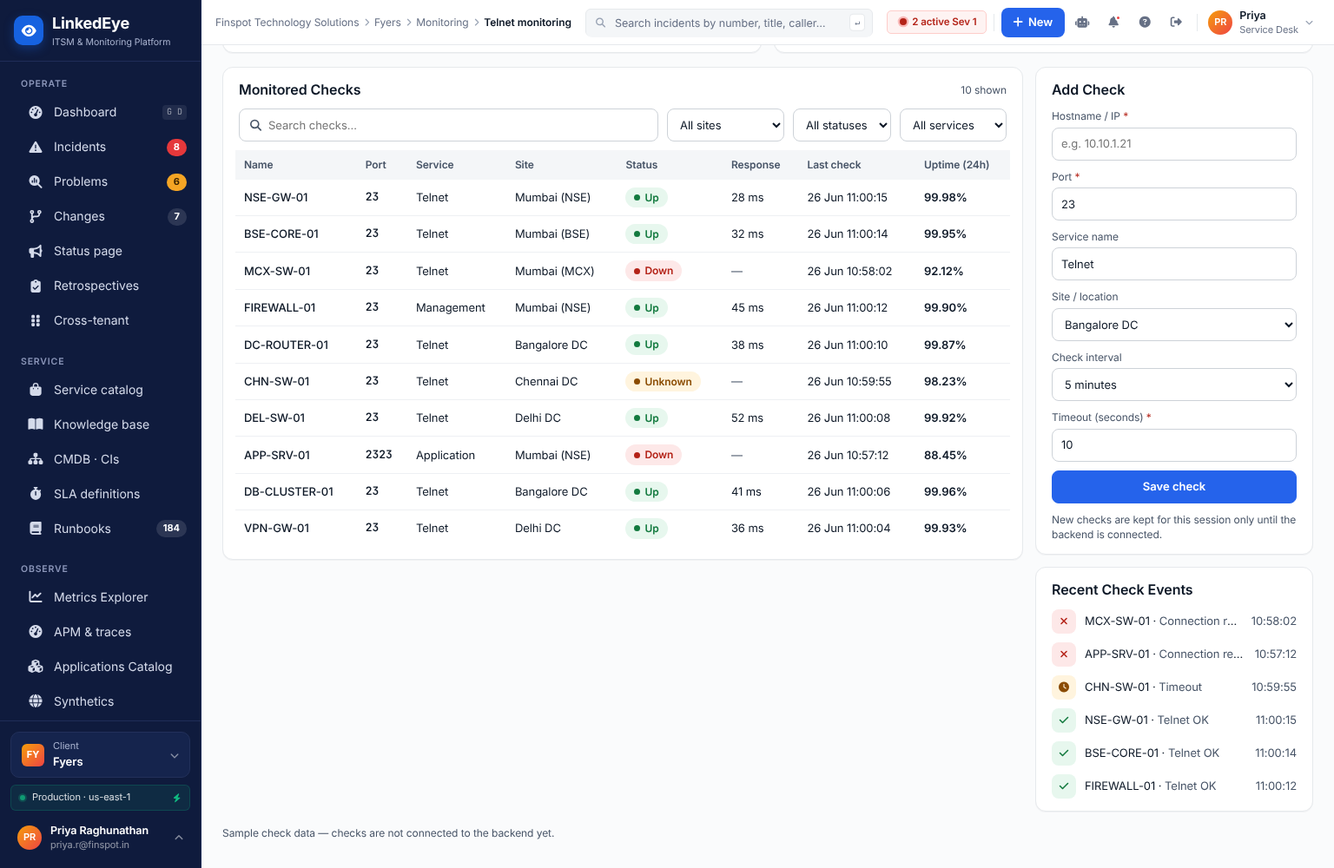
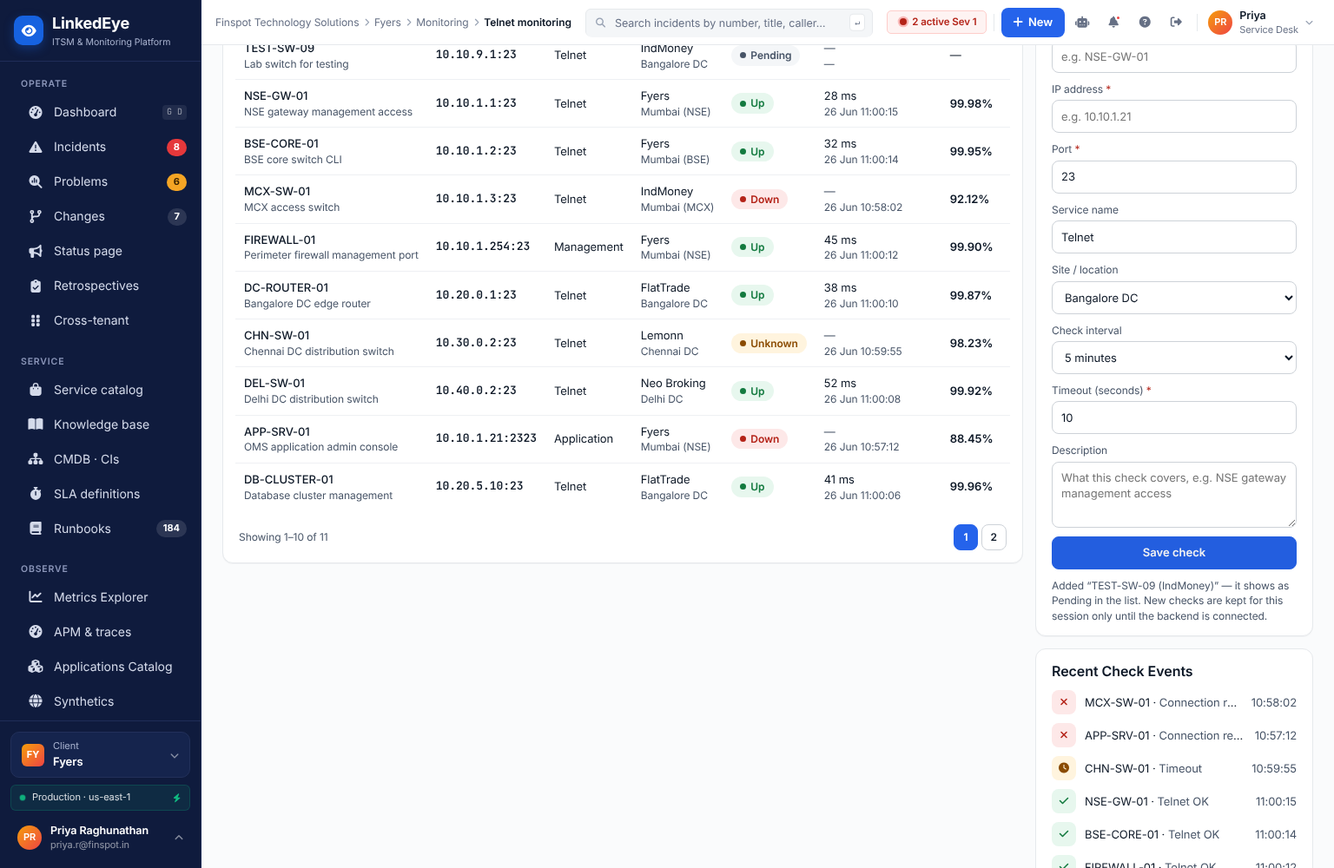
feat(checks): client-scoped checks; Telnet IP address and description
- CheckMonitor is tenant-aware: rows carry their client, the view opens
  on the client picked in the sidebar (follows the switcher) with an
  "All clients" option, and cards / charts / events / table use that
  scope. The add form has a Client field defaulting to the current one;
  a saved check switches the view to its client so it is visible.
- Telnet checks gain an IP address (IPv4-validated) and a description;
  the table shows IP:port and the description under the host name.
- URL checks gain a description and an http(s) URL pattern.
- Client and site share a column, and last-check time sits under the
  response time, so the table fits.

Claude-Session: https://claude.ai/code/session_01Trp7iHV3MS3Xb8qQu9tAwN

diff --git a/frontend/src/components/CheckMonitor.tsx b/frontend/src/components/CheckMonitor.tsx
@@ -1,8 +1,13 @@
 // Shared LinkedEye layout for endpoint check screens (URL Checker, Telnet
 // Monitoring): summary cards, status donut + slowest-checks bars, a filterable
 // checks table, an "add check" form and recent check events.
-// Checks added through the form live in component state for this session only.
+// Checks are tenant-scoped: the view opens on the client picked in the sidebar,
+// with an "All clients" option. Checks added through the form live in
+// component state for this session only.
 import React from "react";
+import { useUiStore } from "@/store/ui";
+import { useTenants } from "@/api/hooks";
+import { TENANTS } from "@/data/core";
 import { Donut, Empty, Legend, Panel, Pill, StatCard, fmt } from "@/components/ld";
 import type { Slice, Tone } from "@/components/ld";
 
@@ -10,7 +15,10 @@ export type CheckStatus = "up" | "down" | "warn" | "pending";
 
 export interface CheckRow {
   id: string;
+  /** Owning client (tenant id). */
+  client: string;
   name: string;
+  description?: string;
   target: string;
   kind: string;
   site: string;
@@ -23,9 +31,12 @@ export interface CheckRow {
 export interface CheckField {
   id: string;
   label: string;
-  type: "text" | "number" | "select";
+  type: "text" | "number" | "select" | "textarea";
   options?: string[];
   placeholder?: string;
+  /** Regex the value must match (HTML pattern attribute), with a hint shown on mismatch. */
+  pattern?: string;
+  patternHint?: string;
   required?: boolean;
   defaultValue?: string;
 }
@@ -41,7 +52,7 @@ export interface CheckMonitorConfig {
   columns: { target: string; kind: string };
   rows: CheckRow[];
   formFields: CheckField[];
-  /** Build a row from submitted form values. */
+  /** Build a row from submitted form values; values.client is the chosen tenant id. */
   toRow: (values: Record<string, string>) => CheckRow;
 }
 
@@ -55,6 +66,12 @@ const lc = (s: string) => (/^[A-Z]{2}/.test(s) ? s : s.toLowerCase());
 const uptimeTone = (u: number | null): string => (u == null ? "" : u >= 99.5 ? "ld-text-ok" : u >= 95 ? "ld-text-warn" : "ld-text-crit");
 
 export function CheckMonitorScreen(cfg: CheckMonitorConfig) {
+  const tenant = useUiStore((s) => s.tenant);
+  const clients = useTenants().data ?? TENANTS;
+  const clientName = (id: string) => clients.find((c) => c.id === id)?.name ?? id;
+  const [client, setClient] = React.useState(tenant.id);
+  // Follow the sidebar's client switcher.
+  React.useEffect(() => setClient(tenant.id), [tenant.id]);
   const [added, setAdded] = React.useState<CheckRow[]>([]);
   const [query, setQuery] = React.useState("");
   const [site, setSite] = React.useState("");
@@ -63,29 +80,31 @@ export function CheckMonitorScreen(cfg: CheckMonitorConfig) {
   const [page, setPage] = React.useState(0);
   const idp = React.useId();
 
-  const initialValues = () => Object.fromEntries(cfg.formFields.map((f) => [f.id, f.defaultValue ?? ""]));
+  const initialValues = () => ({ client: tenant.id, ...Object.fromEntries(cfg.formFields.map((f) => [f.id, f.defaultValue ?? ""])) });
   const [values, setValues] = React.useState<Record<string, string>>(initialValues);
   const [saved, setSaved] = React.useState<string | null>(null);
 
   const all = React.useMemo(() => [...added, ...cfg.rows], [added, cfg.rows]);
-  const sites = [...new Set(all.map((r) => r.site))].sort();
-  const kinds = [...new Set(all.map((r) => r.kind))].sort();
+  // Everything below (cards, charts, events, table) is scoped to the chosen client.
+  const scoped = client ? all.filter((r) => r.client === client) : all;
+  const sites = [...new Set(scoped.map((r) => r.site))].sort();
+  const kinds = [...new Set(scoped.map((r) => r.kind))].sort();
   const q = query.trim().toLowerCase();
-  const visible = all.filter(
+  const visible = scoped.filter(
     (r) =>
       (!site || r.site === site) &&
       (!status || r.status === status) &&
       (!kind || r.kind === kind) &&
-      (!q || r.name.toLowerCase().includes(q) || r.target.toLowerCase().includes(q)),
+      (!q || [r.name, r.target, r.description ?? ""].some((v) => v.toLowerCase().includes(q))),
   );
-  React.useEffect(() => setPage(0), [query, site, status, kind]);
+  React.useEffect(() => setPage(0), [query, site, status, kind, client]);
   const pages = Math.max(1, Math.ceil(visible.length / PAGE_SIZE));
   const pageRows = visible.slice(page * PAGE_SIZE, (page + 1) * PAGE_SIZE);
 
-  const count = (s: CheckStatus) => all.filter((r) => r.status === s).length;
-  const timed = all.filter((r) => r.responseMs != null) as (CheckRow & { responseMs: number })[];
+  const count = (s: CheckStatus) => scoped.filter((r) => r.status === s).length;
+  const timed = scoped.filter((r) => r.responseMs != null) as (CheckRow & { responseMs: number })[];
   const avgMs = timed.length ? timed.reduce((a, r) => a + r.responseMs, 0) / timed.length : 0;
-  const pct = (n: number) => (all.length ? `${((n / all.length) * 100).toFixed(1)}%` : "—");
+  const pct = (n: number) => (scoped.length ? `${((n / scoped.length) * 100).toFixed(1)}%` : "—");
 
   const statusSlices: Slice[] = (["up", "down", "warn", "pending"] as CheckStatus[])
     .map((s) => ({ label: cfg.statusLabel[s], value: count(s), color: STATUS_COLOR[s] }))
@@ -95,7 +114,7 @@ export function CheckMonitorScreen(cfg: CheckMonitorConfig) {
 
   // Failures first, then the most recent checks.
   const severity: Record<CheckStatus, number> = { down: 0, warn: 1, up: 2, pending: 3 };
-  const events = [...all]
+  const events = [...scoped]
     .filter((r) => r.status !== "pending")
     .sort((a, b) => severity[a.status] - severity[b.status] || b.lastCheck.localeCompare(a.lastCheck))
     .slice(0, 6);
@@ -104,7 +123,9 @@ export function CheckMonitorScreen(cfg: CheckMonitorConfig) {
     e.preventDefault();
     const row = cfg.toRow(values);
     setAdded((rows) => [row, ...rows]);
-    setSaved(row.name);
+    setSaved(`${row.name} (${clientName(row.client)})`);
+    // Show the new check even if the list was scoped to another client.
+    if (client && row.client !== client) setClient(row.client);
     setValues(initialValues());
   };
 
@@ -113,9 +134,14 @@ export function CheckMonitorScreen(cfg: CheckMonitorConfig) {
       <div className="ld-head">
         <div>
           <h1>{cfg.title}</h1>
-          <p>{cfg.subtitle}</p>
+          <p>{cfg.subtitle} · {client ? clientName(client) : "all clients"}</p>
         </div>
         <div className="ld-head-actions">
+          <label htmlFor={`${idp}-client`} className="ld-inline-label">Client</label>
+          <select id={`${idp}-client`} className="ld-select" value={client} onChange={(e) => setClient(e.target.value)}>
+            <option value="">All clients</option>
+            {clients.map((c) => <option key={c.id} value={c.id}>{c.name}</option>)}
+          </select>
           <a className="ld-btn ld-btn-primary" href={`#${idp}-form`}>
             <i className="fa-solid fa-plus" aria-hidden="true" /> Add {lc(cfg.noun.one)}
           </a>
@@ -123,7 +149,7 @@ export function CheckMonitorScreen(cfg: CheckMonitorConfig) {
       </div>
 
       <div className="ld-grid ld-grid-5">
-        <StatCard icon={cfg.icon} tone="info" label={`Total ${cfg.noun.many}`} value={fmt(all.length)} note={`configured ${lc(cfg.noun.many)}`} onClick={() => setStatus("")} />
+        <StatCard icon={cfg.icon} tone="info" label={`Total ${cfg.noun.many}`} value={fmt(scoped.length)} note={`configured ${lc(cfg.noun.many)}`} onClick={() => setStatus("")} />
         <StatCard icon="fa-circle-check" tone="ok" label={cfg.statusLabel.up} value={fmt(count("up"))} note={pct(count("up"))} onClick={() => setStatus("up")} />
         <StatCard icon="fa-circle-xmark" tone="crit" label={cfg.statusLabel.down} value={fmt(count("down"))} note={pct(count("down"))} onClick={() => setStatus("down")} />
         <StatCard icon="fa-clock" tone="warn" label={cfg.statusLabel.warn} value={fmt(count("warn"))} note={pct(count("warn"))} onClick={() => setStatus("warn")} />
@@ -134,7 +160,7 @@ export function CheckMonitorScreen(cfg: CheckMonitorConfig) {
         <Panel title={`${cfg.noun.one} Status Overview`}>
           {statusSlices.length ? (
             <div className="ld-donut-row">
-              <Donut slices={statusSlices} center={fmt(all.length)} sub={`Total ${cfg.noun.many}`} label={`${all.length} ${lc(cfg.noun.many)} by status`} />
+              <Donut slices={statusSlices} center={fmt(scoped.length)} sub={`Total ${cfg.noun.many}`} label={`${scoped.length} ${lc(cfg.noun.many)} by status`} />
               <Legend slices={statusSlices} />
             </div>
           ) : (
@@ -196,23 +222,30 @@ export function CheckMonitorScreen(cfg: CheckMonitorConfig) {
                     <th scope="col">Name</th>
                     <th scope="col">{cfg.columns.target}</th>
                     <th scope="col">{cfg.columns.kind}</th>
-                    <th scope="col">Site</th>
+                    <th scope="col">Client · site</th>
                     <th scope="col">Status</th>
-                    <th scope="col">Response</th>
-                    <th scope="col">Last check</th>
+                    <th scope="col">Response · last check</th>
                     <th scope="col">Uptime (24h)</th>
                   </tr>
                 </thead>
                 <tbody>
                   {pageRows.map((r) => (
                     <tr key={r.id}>
-                      <td className="ld-strong">{r.name}</td>
+                      <td>
+                        <span className="ld-strong">{r.name}</span>
+                        {r.description && <span className="ld-sub ld-desc" title={r.description}>{r.description}</span>}
+                      </td>
                       <td className="ld-mono ld-ellipsis ld-ellipsis-sm" title={r.target}>{r.target}</td>
                       <td className="ld-muted">{r.kind}</td>
-                      <td className="ld-muted">{r.site}</td>
+                      <td>
+                        {clientName(r.client)}
+                        <span className="ld-sub">{r.site}</span>
+                      </td>
                       <td><Pill tone={STATUS_TONE[r.status]}><span className="ld-pill-dot" />{cfg.statusLabel[r.status]}</Pill></td>
-                      <td>{r.responseMs != null ? `${fmt(r.responseMs)} ms` : <span className="ld-muted">—</span>}</td>
-                      <td className="ld-muted">{r.lastCheck}</td>
+                      <td>
+                        {r.responseMs != null ? `${fmt(r.responseMs)} ms` : <span className="ld-muted">—</span>}
+                        <span className="ld-sub">{r.lastCheck}</span>
+                      </td>
                       <td className={uptimeTone(r.uptime)}>{r.uptime != null ? `${r.uptime.toFixed(2)}%` : "—"}</td>
                     </tr>
                   ))}
@@ -242,6 +275,12 @@ export function CheckMonitorScreen(cfg: CheckMonitorConfig) {
               <h2 id={`${idp}-form-h`}>Add {cfg.noun.one}</h2>
             </div>
             <form className="ld-form" onSubmit={submit}>
+              <div className="ld-form-field">
+                <label htmlFor={`${idp}-f-client`}>Client<span className="ld-req" aria-hidden="true"> *</span></label>
+                <select id={`${idp}-f-client`} className="ld-select" required value={values.client} onChange={(e) => setValues({ ...values, client: e.target.value })}>
+                  {clients.map((c) => <option key={c.id} value={c.id}>{c.name}</option>)}
+                </select>
+              </div>
               {cfg.formFields.map((f) => (
                 <div key={f.id} className="ld-form-field">
                   <label htmlFor={`${idp}-f-${f.id}`}>
@@ -252,11 +291,23 @@ export function CheckMonitorScreen(cfg: CheckMonitorConfig) {
                     <select id={`${idp}-f-${f.id}`} className="ld-select" required={f.required} value={values[f.id]} onChange={(e) => setValues({ ...values, [f.id]: e.target.value })}>
                       {f.options?.map((o) => <option key={o} value={o}>{o}</option>)}
                     </select>
+                  ) : f.type === "textarea" ? (
+                    <textarea
+                      id={`${idp}-f-${f.id}`}
+                      className="ld-input ld-textarea"
+                      rows={3}
+                      placeholder={f.placeholder}
+                      required={f.required}
+                      value={values[f.id]}
+                      onChange={(e) => setValues({ ...values, [f.id]: e.target.value })}
+                    />
                   ) : (
                     <input
                       id={`${idp}-f-${f.id}`}
                       className="ld-input"
                       type={f.type}
+                      pattern={f.pattern}
+                      title={f.patternHint}
                       min={f.type === "number" ? 1 : undefined}
                       placeholder={f.placeholder}
                       required={f.required}

diff --git a/frontend/src/data/monitoring.ts b/frontend/src/data/monitoring.ts
@@ -173,7 +173,10 @@ export const DOMAINS: DomainRecord[] = [
 ];
 
 export interface UrlCheck {
+  /** Owning client (tenant id) — checks are tenant-scoped. */
+  client: string;
   name: string;
+  description: string;
   url: string;
   type: "Web" | "API";
   site: string;
@@ -184,20 +187,24 @@ export interface UrlCheck {
 }
 
 export const URL_CHECKS: UrlCheck[] = [
-  { name: "NSE Web Portal", url: "https://www.nseindia.com", type: "Web", site: "Mumbai (NSE)", status: "Online", responseMs: 321, lastCheck: "26 Jun 11:02:15", uptime: 99.98 },
-  { name: "BSE Portal", url: "https://www.bseindia.com", type: "Web", site: "Mumbai (BSE)", status: "Online", responseMs: 412, lastCheck: "26 Jun 11:02:12", uptime: 99.95 },
-  { name: "MCX Portal", url: "https://www.mcxindia.com", type: "Web", site: "Mumbai (MCX)", status: "Degraded", responseMs: 1842, lastCheck: "26 Jun 11:02:10", uptime: 95.23 },
-  { name: "WeCrew Academy", url: "https://wecrew.in", type: "Web", site: "All Sites", status: "Online", responseMs: 289, lastCheck: "26 Jun 11:02:14", uptime: 99.99 },
-  { name: "LinkedEye API", url: "https://api.wecrew.in", type: "API", site: "All Sites", status: "Online", responseMs: 356, lastCheck: "26 Jun 11:02:11", uptime: 99.96 },
-  { name: "Redmine", url: "https://redmine.wecrew.in", type: "Web", site: "Mumbai", status: "Down", responseMs: null, lastCheck: "26 Jun 11:01:55", uptime: 87.42 },
-  { name: "Grafana", url: "https://grafana.wecrew.in", type: "Web", site: "All Sites", status: "Online", responseMs: 623, lastCheck: "26 Jun 11:02:13", uptime: 99.91 },
-  { name: "Prometheus", url: "https://prometheus.wecrew.in", type: "Web", site: "All Sites", status: "Online", responseMs: 512, lastCheck: "26 Jun 11:02:12", uptime: 99.93 },
-  { name: "Superset", url: "https://superset.wecrew.in", type: "Web", site: "All Sites", status: "Degraded", responseMs: 1256, lastCheck: "26 Jun 11:02:09", uptime: 96.18 },
-  { name: "Customer Portal", url: "https://customer.wecrew.in", type: "Web", site: "DR Site", status: "Online", responseMs: 398, lastCheck: "26 Jun 11:02:10", uptime: 99.89 },
+  { client: "fyers", name: "NSE Web Portal", description: "NSE public site availability", url: "https://www.nseindia.com", type: "Web", site: "Mumbai (NSE)", status: "Online", responseMs: 321, lastCheck: "26 Jun 11:02:15", uptime: 99.98 },
+  { client: "fyers", name: "BSE Portal", description: "BSE public site availability", url: "https://www.bseindia.com", type: "Web", site: "Mumbai (BSE)", status: "Online", responseMs: 412, lastCheck: "26 Jun 11:02:12", uptime: 99.95 },
+  { client: "indmoney", name: "MCX Portal", description: "MCX commodities portal", url: "https://www.mcxindia.com", type: "Web", site: "Mumbai (MCX)", status: "Degraded", responseMs: 1842, lastCheck: "26 Jun 11:02:10", uptime: 95.23 },
+  { client: "flattrade", name: "WeCrew Academy", description: "Training portal for client staff", url: "https://wecrew.in", type: "Web", site: "All Sites", status: "Online", responseMs: 289, lastCheck: "26 Jun 11:02:14", uptime: 99.99 },
+  { client: "fyers", name: "LinkedEye API", description: "LinkedEye public API health", url: "https://api.wecrew.in", type: "API", site: "All Sites", status: "Online", responseMs: 356, lastCheck: "26 Jun 11:02:11", uptime: 99.96 },
+  { client: "lemonn", name: "Redmine", description: "Internal ticketing", url: "https://redmine.wecrew.in", type: "Web", site: "Mumbai", status: "Down", responseMs: null, lastCheck: "26 Jun 11:01:55", uptime: 87.42 },
+  { client: "fyers", name: "Grafana", description: "Dashboards for the NOC", url: "https://grafana.wecrew.in", type: "Web", site: "All Sites", status: "Online", responseMs: 623, lastCheck: "26 Jun 11:02:13", uptime: 99.91 },
+  { client: "indmoney", name: "Prometheus", description: "Metrics backend UI", url: "https://prometheus.wecrew.in", type: "Web", site: "All Sites", status: "Online", responseMs: 512, lastCheck: "26 Jun 11:02:12", uptime: 99.93 },
+  { client: "neo-broking", name: "Superset", description: "Analytics dashboards", url: "https://superset.wecrew.in", type: "Web", site: "All Sites", status: "Degraded", responseMs: 1256, lastCheck: "26 Jun 11:02:09", uptime: 96.18 },
+  { client: "betafront", name: "Customer Portal", description: "Customer self-service portal", url: "https://customer.wecrew.in", type: "Web", site: "DR Site", status: "Online", responseMs: 398, lastCheck: "26 Jun 11:02:10", uptime: 99.89 },
 ];
 
 export interface TelnetCheck {
+  /** Owning client (tenant id) — checks are tenant-scoped. */
+  client: string;
   host: string;
+  ip: string;
+  description: string;
   port: number;
   service: string;
   site: string;
@@ -208,14 +215,14 @@ export interface TelnetCheck {
 }
 
 export const TELNET_CHECKS: TelnetCheck[] = [
-  { host: "NSE-GW-01", port: 23, service: "Telnet", site: "Mumbai (NSE)", status: "Up", responseMs: 28, lastCheck: "26 Jun 11:00:15", uptime: 99.98 },
-  { host: "BSE-CORE-01", port: 23, service: "Telnet", site: "Mumbai (BSE)", status: "Up", responseMs: 32, lastCheck: "26 Jun 11:00:14", uptime: 99.95 },
-  { host: "MCX-SW-01", port: 23, service: "Telnet", site: "Mumbai (MCX)", status: "Down", responseMs: null, lastCheck: "26 Jun 10:58:02", uptime: 92.12 },
-  { host: "FIREWALL-01", port: 23, service: "Management", site: "Mumbai (NSE)", status: "Up", responseMs: 45, lastCheck: "26 Jun 11:00:12", uptime: 99.9 },
-  { host: "DC-ROUTER-01", port: 23, service: "Telnet", site: "Bangalore DC", status: "Up", responseMs: 38, lastCheck: "26 Jun 11:00:10", uptime: 99.87 },
-  { host: "CHN-SW-01", port: 23, service: "Telnet", site: "Chennai DC", status: "Unknown", responseMs: null, lastCheck: "26 Jun 10:59:55", uptime: 98.23 },
-  { host: "DEL-SW-01", port: 23, service: "Telnet", site: "Delhi DC", status: "Up", responseMs: 52, lastCheck: "26 Jun 11:00:08", uptime: 99.92 },
-  { host: "APP-SRV-01", port: 2323, service: "Application", site: "Mumbai (NSE)", status: "Down", responseMs: null, lastCheck: "26 Jun 10:57:12", uptime: 88.45 },
-  { host: "DB-CLUSTER-01", port: 23, service: "Telnet", site: "Bangalore DC", status: "Up", responseMs: 41, lastCheck: "26 Jun 11:00:06", uptime: 99.96 },
-  { host: "VPN-GW-01", port: 23, service: "Telnet", site: "Delhi DC", status: "Up", responseMs: 36, lastCheck: "26 Jun 11:00:04", uptime: 99.93 },
+  { client: "fyers", host: "NSE-GW-01", ip: "10.10.1.1", description: "NSE gateway management access", port: 23, service: "Telnet", site: "Mumbai (NSE)", status: "Up", responseMs: 28, lastCheck: "26 Jun 11:00:15", uptime: 99.98 },
+  { client: "fyers", host: "BSE-CORE-01", ip: "10.10.1.2", description: "BSE core switch CLI", port: 23, service: "Telnet", site: "Mumbai (BSE)", status: "Up", responseMs: 32, lastCheck: "26 Jun 11:00:14", uptime: 99.95 },
+  { client: "indmoney", host: "MCX-SW-01", ip: "10.10.1.3", description: "MCX access switch", port: 23, service: "Telnet", site: "Mumbai (MCX)", status: "Down", responseMs: null, lastCheck: "26 Jun 10:58:02", uptime: 92.12 },
+  { client: "fyers", host: "FIREWALL-01", ip: "10.10.1.254", description: "Perimeter firewall management port", port: 23, service: "Management", site: "Mumbai (NSE)", status: "Up", responseMs: 45, lastCheck: "26 Jun 11:00:12", uptime: 99.9 },
+  { client: "flattrade", host: "DC-ROUTER-01", ip: "10.20.0.1", description: "Bangalore DC edge router", port: 23, service: "Telnet", site: "Bangalore DC", status: "Up", responseMs: 38, lastCheck: "26 Jun 11:00:10", uptime: 99.87 },
+  { client: "lemonn", host: "CHN-SW-01", ip: "10.30.0.2", description: "Chennai DC distribution switch", port: 23, service: "Telnet", site: "Chennai DC", status: "Unknown", responseMs: null, lastCheck: "26 Jun 10:59:55", uptime: 98.23 },
+  { client: "neo-broking", host: "DEL-SW-01", ip: "10.40.0.2", description: "Delhi DC distribution switch", port: 23, service: "Telnet", site: "Delhi DC", status: "Up", responseMs: 52, lastCheck: "26 Jun 11:00:08", uptime: 99.92 },
+  { client: "fyers", host: "APP-SRV-01", ip: "10.10.1.21", description: "OMS application admin console", port: 2323, service: "Application", site: "Mumbai (NSE)", status: "Down", responseMs: null, lastCheck: "26 Jun 10:57:12", uptime: 88.45 },
+  { client: "flattrade", host: "DB-CLUSTER-01", ip: "10.20.5.10", description: "Database cluster management", port: 23, service: "Telnet", site: "Bangalore DC", status: "Up", responseMs: 41, lastCheck: "26 Jun 11:00:06", uptime: 99.96 },
+  { client: "betafront", host: "VPN-GW-01", ip: "10.40.0.1", description: "Remote access VPN gateway", port: 23, service: "Telnet", site: "Delhi DC", status: "Up", responseMs: 36, lastCheck: "26 Jun 11:00:04", uptime: 99.93 },
 ];

diff --git a/frontend/src/screens/TelnetMonitoringScreen.tsx b/frontend/src/screens/TelnetMonitoringScreen.tsx
@@ -8,10 +8,14 @@ import { TELNET_CHECKS } from "@/data/monitoring";
 
 const STATUS: Record<string, CheckStatus> = { Up: "up", Down: "down", Unknown: "warn" };
 
+const IPV4 = String.raw`(25[0-5]|2[0-4]\d|1?\d?\d)(\.(25[0-5]|2[0-4]\d|1?\d?\d)){3}`;
+
 const ROWS: CheckRow[] = TELNET_CHECKS.map((c) => ({
-  id: `${c.host}:${c.port}`,
+  id: `${c.client}:${c.host}:${c.port}`,
+  client: c.client,
   name: c.host,
-  target: String(c.port),
+  description: c.description,
+  target: `${c.ip}:${c.port}`,
   kind: c.service,
   site: c.site,
   status: STATUS[c.status],
@@ -31,20 +35,24 @@ export default function TelnetMonitoringScreen() {
       noun={{ one: "Check", many: "Checks" }}
       statusLabel={{ up: "Up", down: "Down", warn: "Unknown", pending: "Pending" }}
       eventMessage={{ up: "Telnet OK", down: "Connection refused", warn: "Timeout", pending: "Waiting for first check" }}
-      columns={{ target: "Port", kind: "Service" }}
+      columns={{ target: "IP address : port", kind: "Service" }}
       rows={ROWS}
       formFields={[
-        { id: "host", label: "Hostname / IP", type: "text", placeholder: "e.g. 10.10.1.21", required: true },
+        { id: "host", label: "Hostname", type: "text", placeholder: "e.g. NSE-GW-01", required: true },
+        { id: "ip", label: "IP address", type: "text", placeholder: "e.g. 10.10.1.21", required: true, pattern: IPV4, patternHint: "Enter a valid IPv4 address, e.g. 10.10.1.21" },
         { id: "port", label: "Port", type: "number", defaultValue: "23", required: true },
         { id: "service", label: "Service name", type: "text", defaultValue: "Telnet" },
         { id: "site", label: "Site / location", type: "select", options: SITES, defaultValue: SITES[0] },
         { id: "interval", label: "Check interval", type: "select", options: ["1 minute", "5 minutes", "15 minutes"], defaultValue: "5 minutes" },
         { id: "timeout", label: "Timeout (seconds)", type: "number", defaultValue: "10", required: true },
+        { id: "description", label: "Description", type: "textarea", placeholder: "What this check covers, e.g. NSE gateway management access" },
       ]}
       toRow={(v) => ({
         id: `new-${Date.now()}`,
+        client: v.client,
         name: v.host,
-        target: v.port,
+        description: v.description.trim() || undefined,
+        target: `${v.ip}:${v.port}`,
         kind: v.service || "Telnet",
         site: v.site,
         status: "pending",

diff --git a/frontend/src/screens/UrlCheckerScreen.tsx b/frontend/src/screens/UrlCheckerScreen.tsx
@@ -8,8 +8,10 @@ import { URL_CHECKS } from "@/data/monitoring";
 const STATUS: Record<string, CheckStatus> = { Online: "up", Down: "down", Degraded: "warn" };
 
 const ROWS: CheckRow[] = URL_CHECKS.map((c) => ({
-  id: c.url,
+  id: `${c.client}:${c.url}`,
+  client: c.client,
   name: c.name,
+  description: c.description,
   target: c.url,
   kind: c.type,
   site: c.site,
@@ -34,14 +36,17 @@ export default function UrlCheckerScreen() {
       rows={ROWS}
       formFields={[
         { id: "name", label: "Name", type: "text", placeholder: "e.g. NSE Web Portal", required: true },
-        { id: "url", label: "URL", type: "text", placeholder: "https://example.com", required: true },
+        { id: "url", label: "URL", type: "text", placeholder: "https://example.com", required: true, pattern: "https?://.+", patternHint: "Start with http:// or https://" },
         { id: "type", label: "Check type", type: "select", options: ["Web", "API"], defaultValue: "Web" },
         { id: "site", label: "Site / location", type: "select", options: SITES, defaultValue: SITES[0] },
         { id: "interval", label: "Check interval", type: "select", options: ["1 minute", "5 minutes", "15 minutes"], defaultValue: "5 minutes" },
+        { id: "description", label: "Description", type: "textarea", placeholder: "What this endpoint is, e.g. NSE public site" },
       ]}
       toRow={(v) => ({
         id: `new-${Date.now()}`,
+        client: v.client,
         name: v.name,
+        description: v.description.trim() || undefined,
         target: v.url,
         kind: v.type,
         site: v.site,

diff --git a/frontend/src/styles.css b/frontend/src/styles.css
@@ -3108,3 +3108,6 @@ a.ld-btn { text-decoration: none; }
 .ld-list-option-add { color: var(--accent); font-weight: 600; background: var(--bg-muted); }
 .ld-tips { display: flex; flex-direction: column; gap: 8px; font-size: 13px; color: var(--fg-muted); line-height: 1.5; }
 .ld-tips b { color: var(--fg); }
+.ld-inline-label { font-size: 13px; color: var(--fg-muted); }
+.ld-textarea { min-height: 76px; padding: 8px 10px; resize: vertical; line-height: 1.4; }
+.ld-desc { max-width: 220px; overflow: hidden; text-overflow: ellipsis; white-space: nowrap; }
